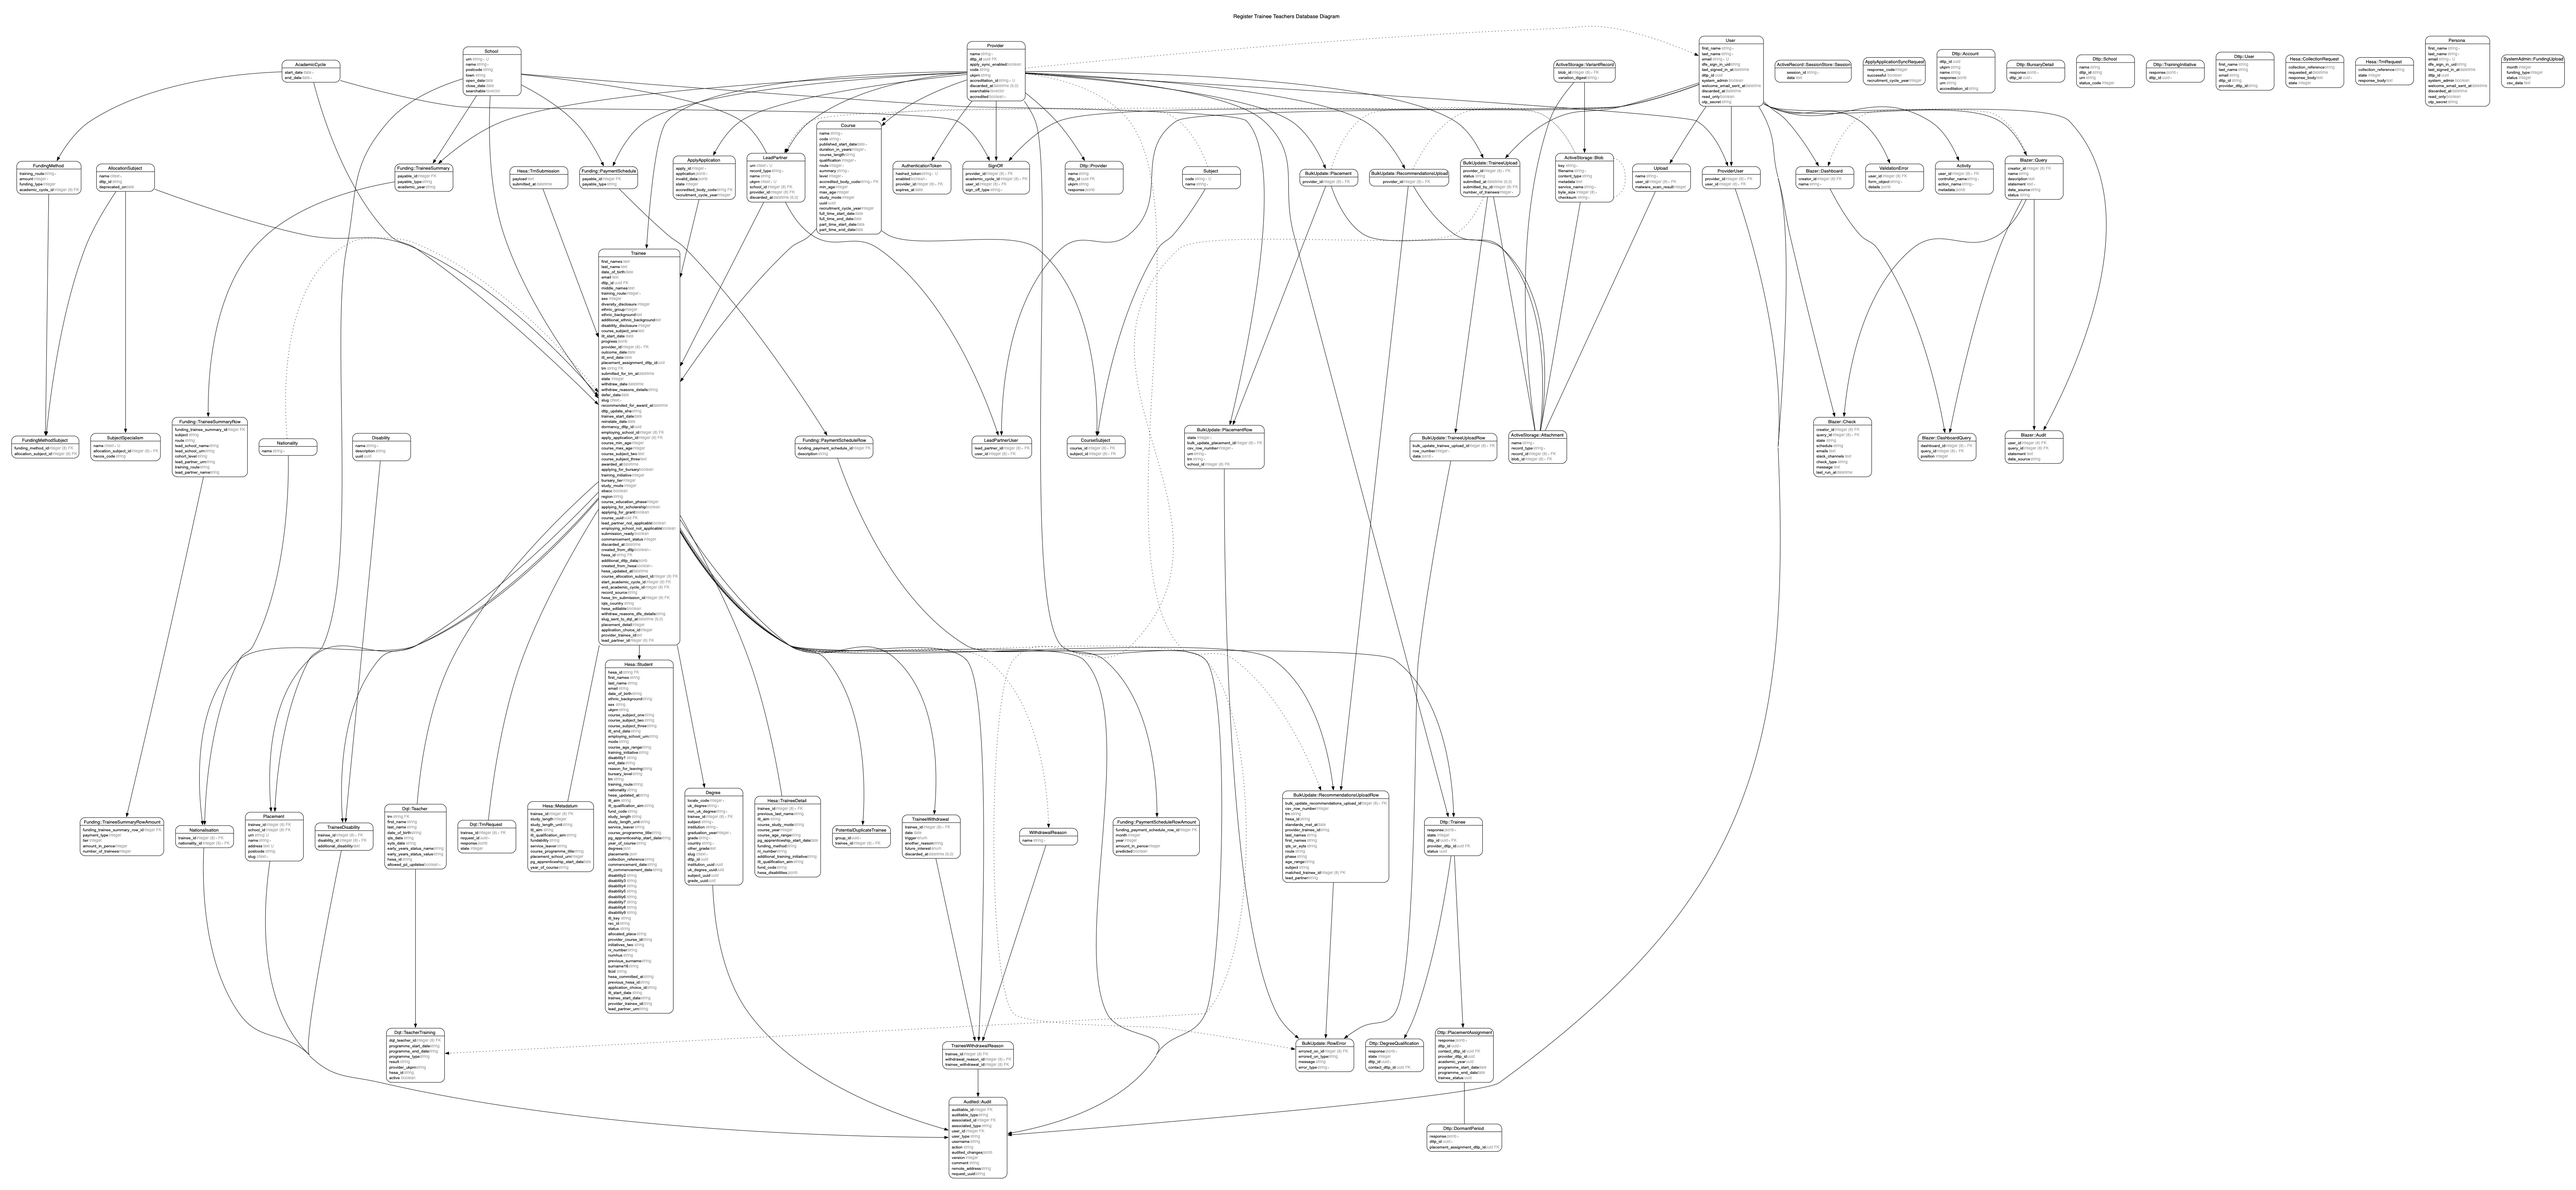
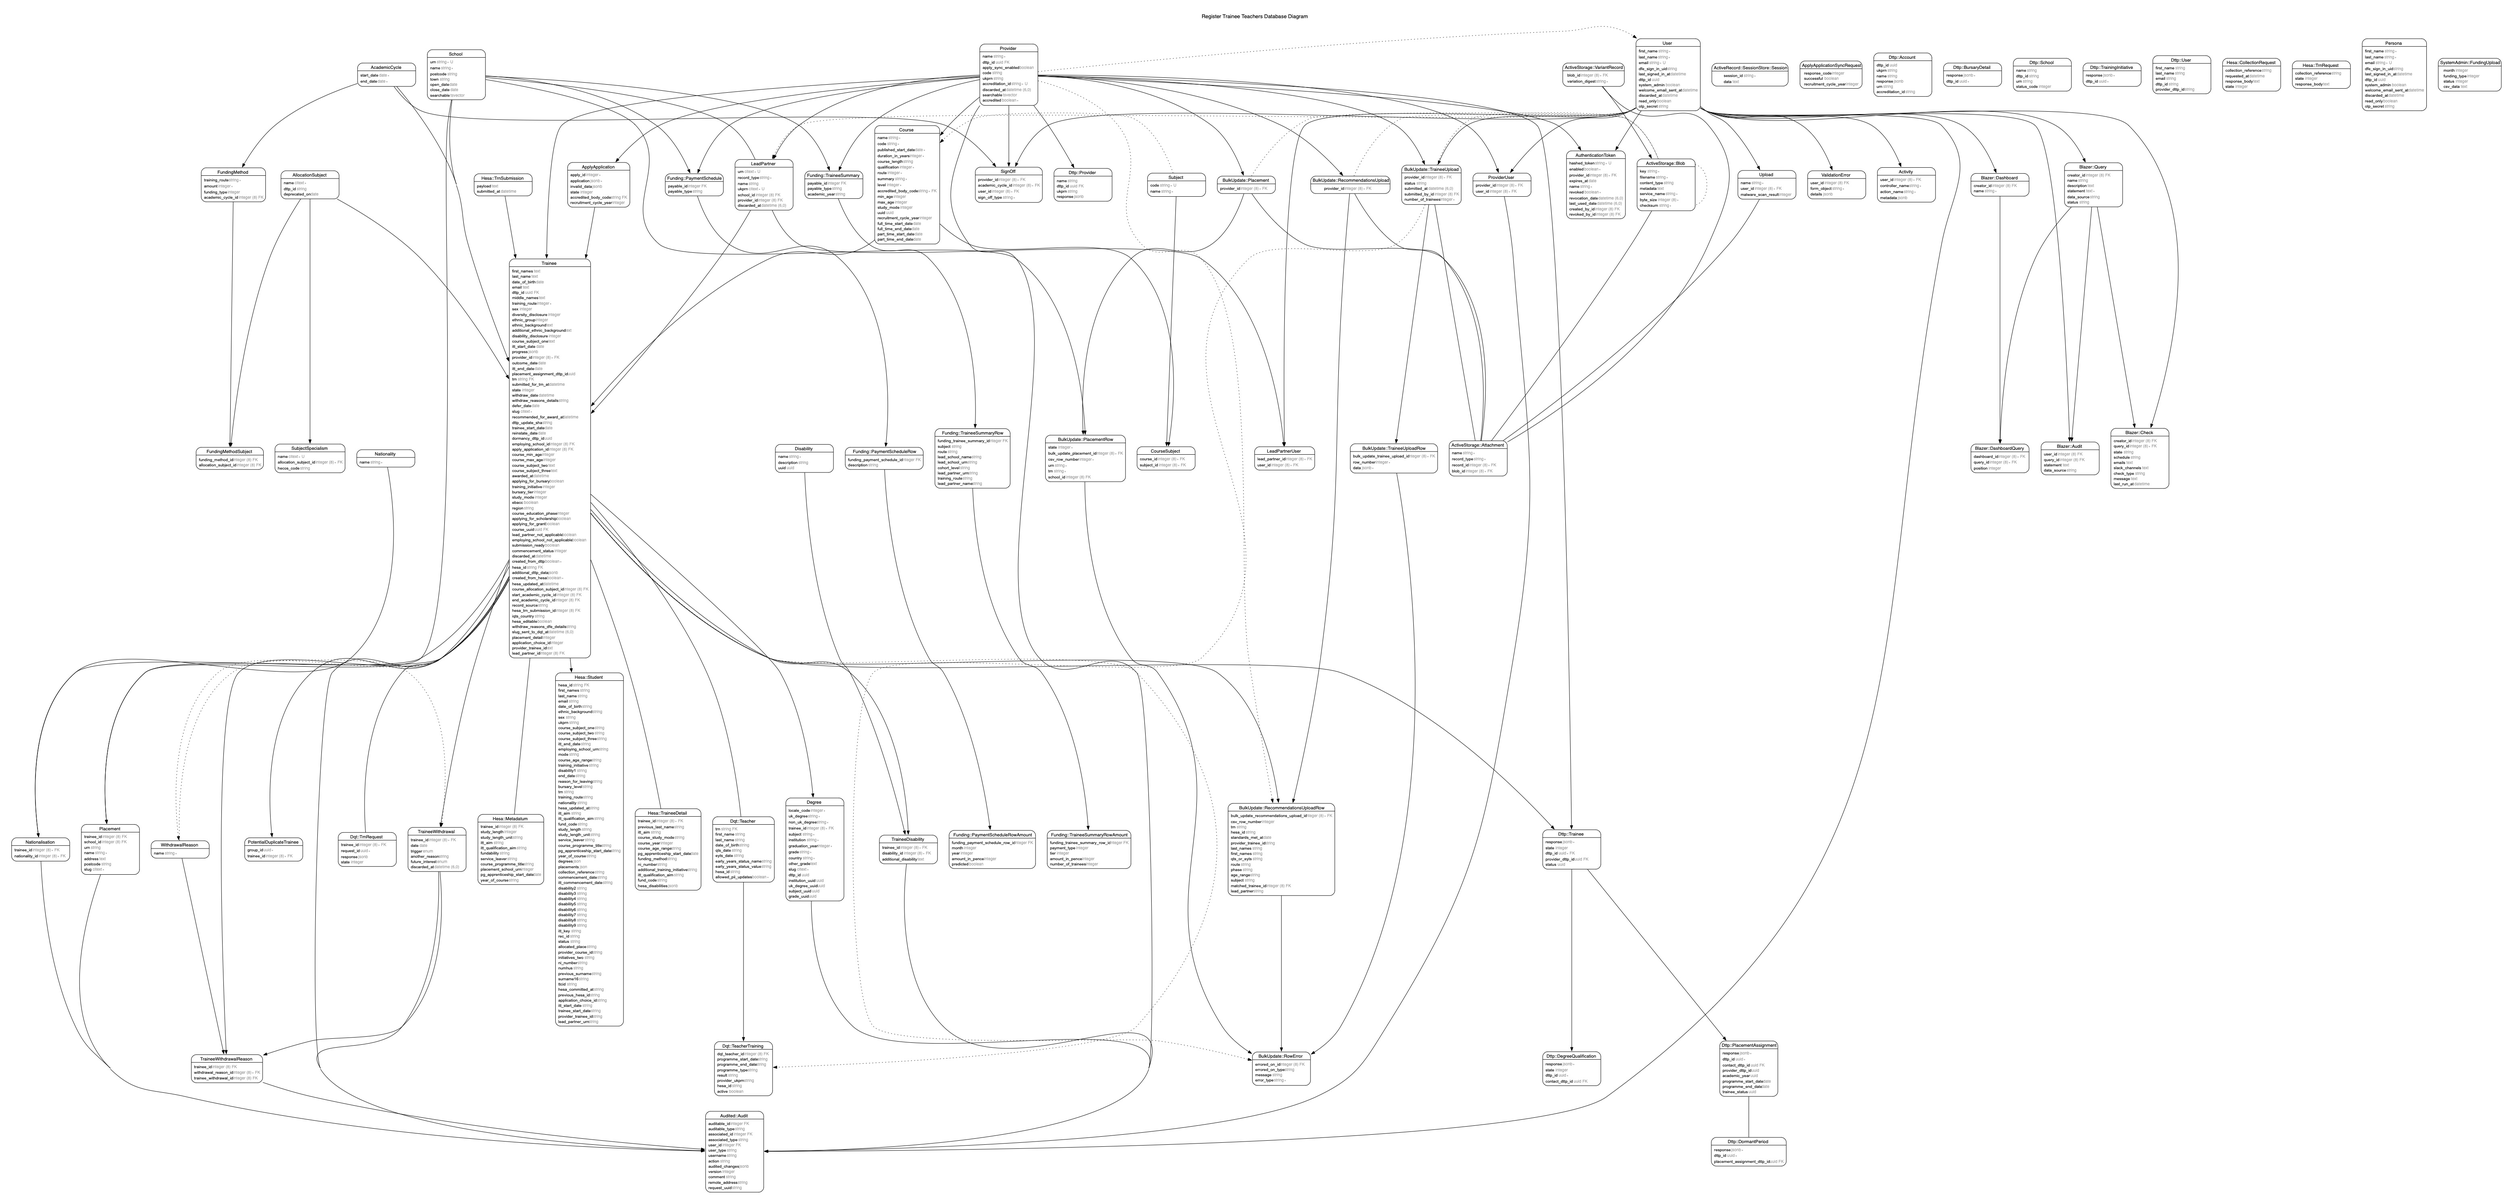
add attributes to authentication tokens

diff --git a/db/schema.rb b/db/schema.rb
@@ -10,7 +10,7 @@
 #
 # It's strongly recommended that you check this file into your version control system.
 
-ActiveRecord::Schema[7.2].define(version: 2025_03_05_123050) do
+ActiveRecord::Schema[7.2].define(version: 2025_03_14_141354) do
   # These are extensions that must be enabled in order to support this database
   enable_extension "btree_gist"
   enable_extension "citext"
@@ -131,8 +131,16 @@ ActiveRecord::Schema[7.2].define(version: 2025_03_05_123050) do
     t.date "expires_at"
     t.datetime "created_at", null: false
     t.datetime "updated_at", null: false
+    t.string "name"
+    t.boolean "revoked", default: false, null: false
+    t.datetime "revocation_date"
+    t.datetime "last_used_date"
+    t.bigint "created_by_id"
+    t.bigint "revoked_by_id"
+    t.index ["created_by_id"], name: "index_authentication_tokens_on_created_by_id"
     t.index ["hashed_token"], name: "index_authentication_tokens_on_hashed_token", unique: true
     t.index ["provider_id"], name: "index_authentication_tokens_on_provider_id"
+    t.index ["revoked_by_id"], name: "index_authentication_tokens_on_revoked_by_id"
   end
 
   create_table "blazer_audits", force: :cascade do |t|
@@ -677,10 +685,10 @@ ActiveRecord::Schema[7.2].define(version: 2025_03_05_123050) do
     t.string "surname16"
     t.string "ttcid"
     t.string "hesa_committed_at"
+    t.string "previous_hesa_id"
     t.string "application_choice_id"
     t.string "itt_start_date"
     t.string "trainee_start_date"
-    t.string "previous_hesa_id"
     t.string "provider_trainee_id"
     t.string "lead_partner_urn"
     t.index ["hesa_id", "rec_id"], name: "index_hesa_students_on_hesa_id_and_rec_id", unique: true
@@ -745,6 +753,15 @@ ActiveRecord::Schema[7.2].define(version: 2025_03_05_123050) do
     t.index ["school_id"], name: "index_lead_partners_on_school_id", unique: true
     t.index ["ukprn"], name: "index_lead_partners_on_ukprn", unique: true
     t.index ["urn"], name: "index_lead_partners_on_urn", unique: true
+  end
+
+  create_table "lead_school_users", force: :cascade do |t|
+    t.bigint "lead_school_id", null: false
+    t.bigint "user_id", null: false
+    t.datetime "created_at", null: false
+    t.datetime "updated_at", null: false
+    t.index ["lead_school_id"], name: "index_lead_school_users_on_lead_school_id"
+    t.index ["user_id"], name: "index_lead_school_users_on_user_id"
   end
 
   create_table "nationalisations", force: :cascade do |t|
@@ -1056,6 +1073,8 @@ ActiveRecord::Schema[7.2].define(version: 2025_03_05_123050) do
   add_foreign_key "active_storage_variant_records", "active_storage_blobs", column: "blob_id"
   add_foreign_key "activities", "users"
   add_foreign_key "authentication_tokens", "providers"
+  add_foreign_key "authentication_tokens", "users", column: "created_by_id"
+  add_foreign_key "authentication_tokens", "users", column: "revoked_by_id"
   add_foreign_key "bulk_update_placement_rows", "bulk_update_placements"
   add_foreign_key "bulk_update_placement_rows", "schools"
   add_foreign_key "bulk_update_placements", "providers"

diff --git a/app/models/authentication_token.rb b/app/models/authentication_token.rb
@@ -4,31 +4,44 @@
 #
 # Table name: authentication_tokens
 #
-#  id           :bigint           not null, primary key
-#  enabled      :boolean          default(TRUE), not null
-#  expires_at   :date
-#  hashed_token :string           not null
-#  created_at   :datetime         not null
-#  updated_at   :datetime         not null
-#  provider_id  :bigint           not null
+#  id              :bigint           not null, primary key
+#  enabled         :boolean          default(TRUE), not null
+#  expires_at      :date
+#  hashed_token    :string           not null
+#  last_used_date  :datetime
+#  name            :string
+#  revocation_date :datetime
+#  revoked         :boolean          default(FALSE), not null
+#  created_at      :datetime         not null
+#  updated_at      :datetime         not null
+#  created_by_id   :bigint
+#  provider_id     :bigint           not null
+#  revoked_by_id   :bigint
 #
 # Indexes
 #
-#  index_authentication_tokens_on_hashed_token  (hashed_token) UNIQUE
-#  index_authentication_tokens_on_provider_id   (provider_id)
+#  index_authentication_tokens_on_created_by_id  (created_by_id)
+#  index_authentication_tokens_on_hashed_token   (hashed_token) UNIQUE
+#  index_authentication_tokens_on_provider_id    (provider_id)
+#  index_authentication_tokens_on_revoked_by_id  (revoked_by_id)
 #
 # Foreign Keys
 #
+#  fk_rails_...  (created_by_id => users.id)
 #  fk_rails_...  (provider_id => providers.id)
+#  fk_rails_...  (revoked_by_id => users.id)
 #
 
 class AuthenticationToken < ApplicationRecord
   belongs_to :provider
+  belongs_to :created_by, class_name: "User", optional: true
+  belongs_to :revoked_by, class_name: "User", optional: true
 
   validates :hashed_token, presence: true, uniqueness: true
+  validates :name, presence: true, length: { maximum: 200 }
 
   def self.create_with_random_token(attributes = {})
-    token = SecureRandom.hex(10)
+    token = "#{Rails.env}_" + SecureRandom.hex(10)
     hashed_token = hash_token(token)
 
     create(attributes.merge(hashed_token:))

diff --git a/spec/models/authentication_token_spec.rb b/spec/models/authentication_token_spec.rb
@@ -6,7 +6,7 @@ RSpec.describe AuthenticationToken do
   let(:provider) { create(:provider) }
 
   describe ".create_with_random_token" do
-    let(:token) { "Bearer #{described_class.create_with_random_token(provider_id: provider.id)}" }
+    let(:token) { "Bearer #{described_class.create_with_random_token(provider_id: provider.id, name: 'Provider test token')}" }
 
     subject(:authentication_token) { AuthenticationToken.authenticate(token) }
 
@@ -22,8 +22,18 @@ RSpec.describe AuthenticationToken do
       expect(authentication_token.provider_id).to eq(provider.id)
     end
 
+    it "includes the environment name in the token" do
+      expect(token.split.last.split("_").first).to eq("test")
+    end
+
     it { is_expected.to validate_uniqueness_of(:hashed_token) }
 
     it { is_expected.to belong_to(:provider) }
+
+    it { is_expected.to belong_to(:created_by).optional }
+
+    it { is_expected.to belong_to(:revoked_by).optional }
+
+    it { is_expected.to validate_length_of(:name).is_at_most(200) }
   end
 end

diff --git a/db/migrate/20250314141354_add_attributes_to_authetication_tokens.rb b/db/migrate/20250314141354_add_attributes_to_authetication_tokens.rb
@@ -1,0 +1,14 @@
+# frozen_string_literal: true
+
+class AddAttributesToAutheticationTokens < ActiveRecord::Migration[7.2]
+  def change
+    safety_assured do
+      add_column :authentication_tokens, :name, :string
+      add_column :authentication_tokens, :revoked, :boolean, default: false, null: false
+      add_column :authentication_tokens, :revocation_date, :datetime
+      add_column :authentication_tokens, :last_used_date, :datetime
+      add_reference :authentication_tokens, :created_by, foreign_key: { to_table: :users }
+      add_reference :authentication_tokens, :revoked_by, foreign_key: { to_table: :users }
+    end
+  end
+end

diff --git a/app/models/bulk_update/placement_row.rb b/app/models/bulk_update/placement_row.rb
@@ -16,7 +16,6 @@
 #
 # Indexes
 #
-#  idx_uniq_placement_rows                                       (bulk_update_placement_id,csv_row_number,trn,urn) UNIQUE
 #  index_bulk_update_placement_rows_on_bulk_update_placement_id  (bulk_update_placement_id)
 #  index_bulk_update_placement_rows_on_school_id                 (school_id)
 #
